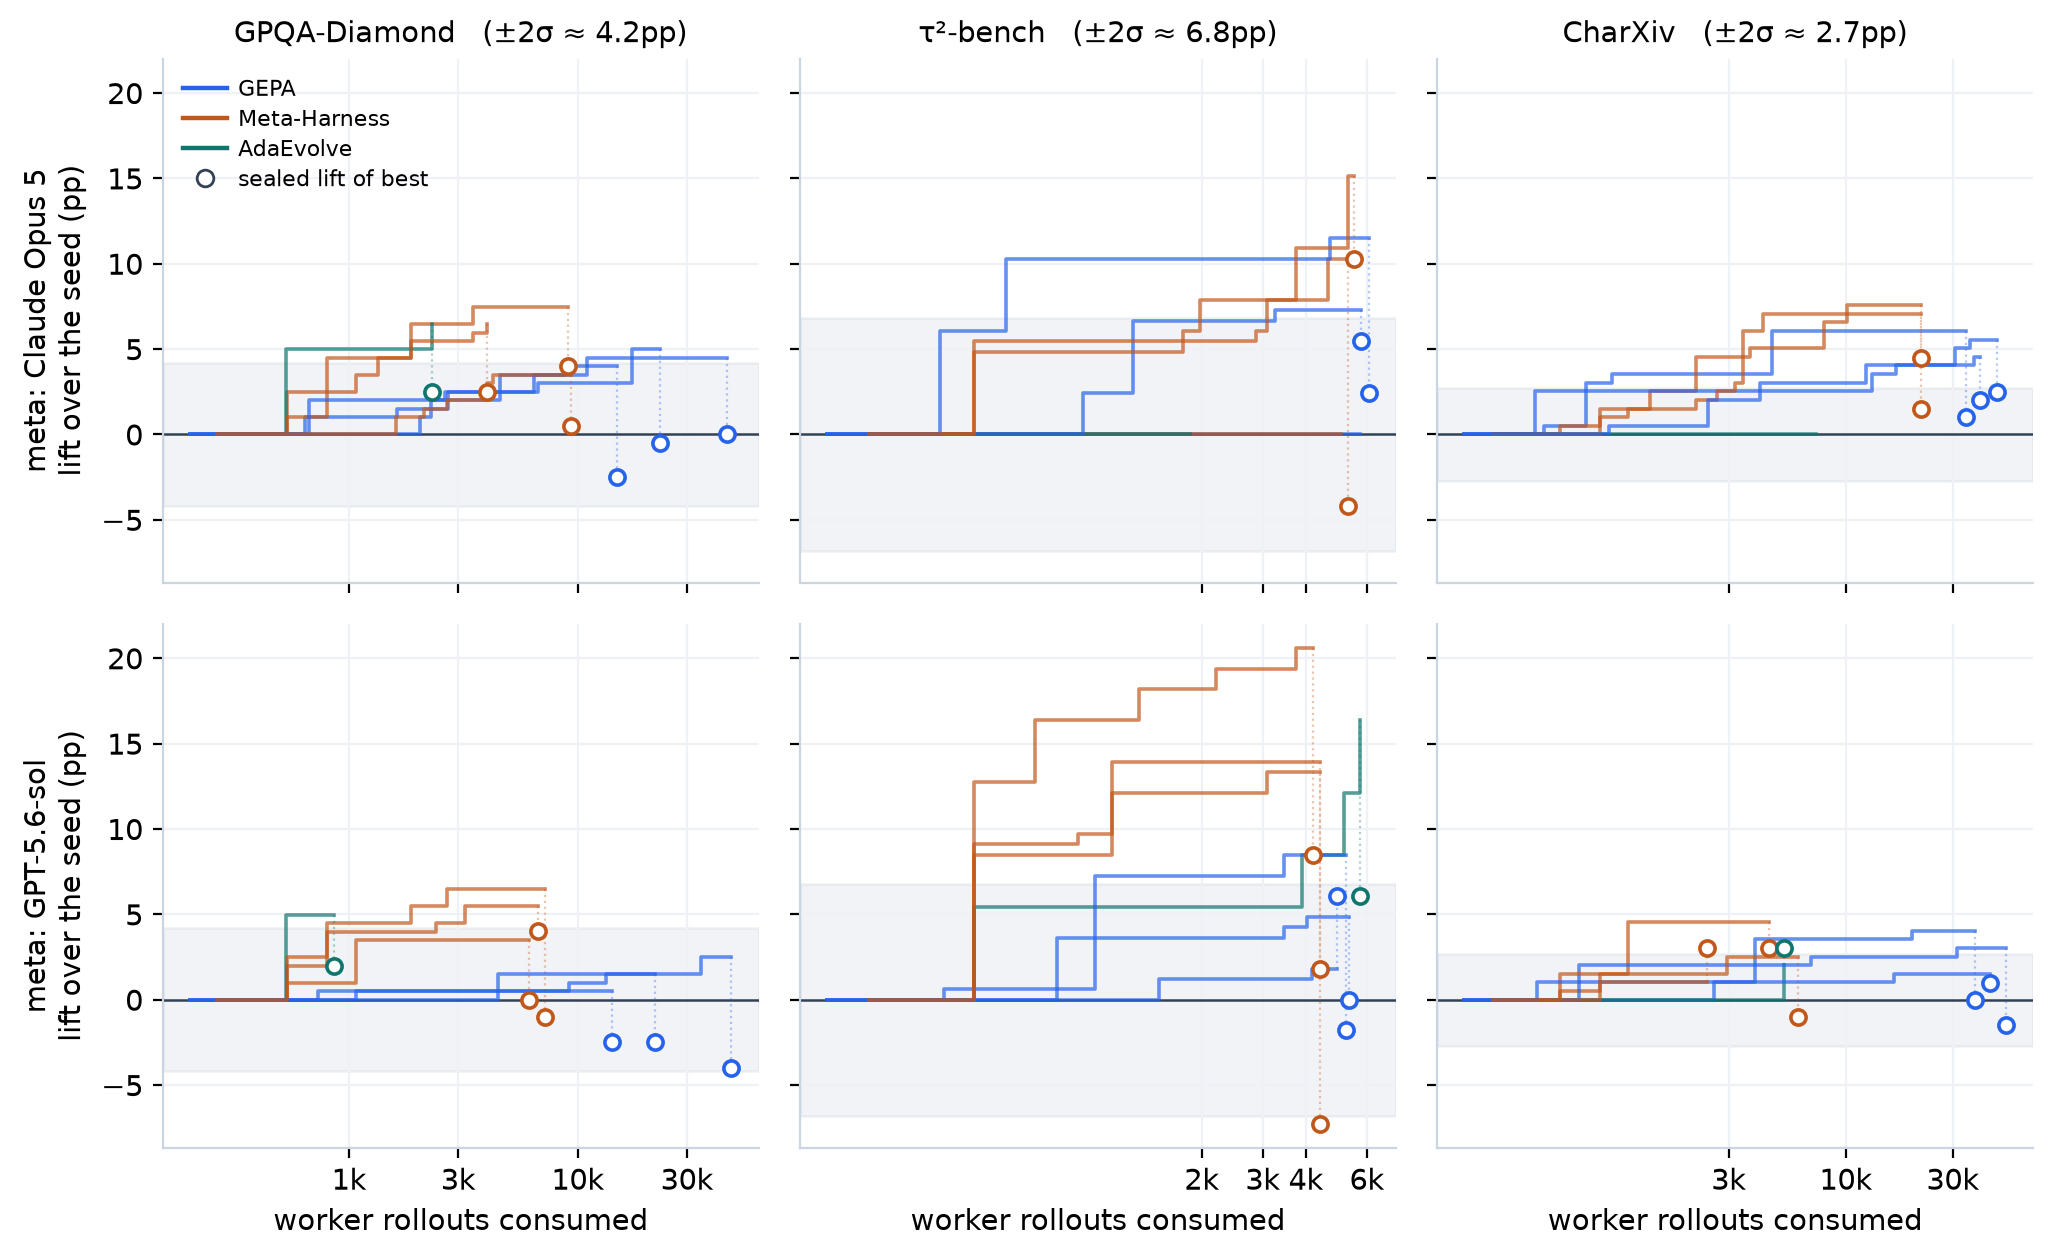
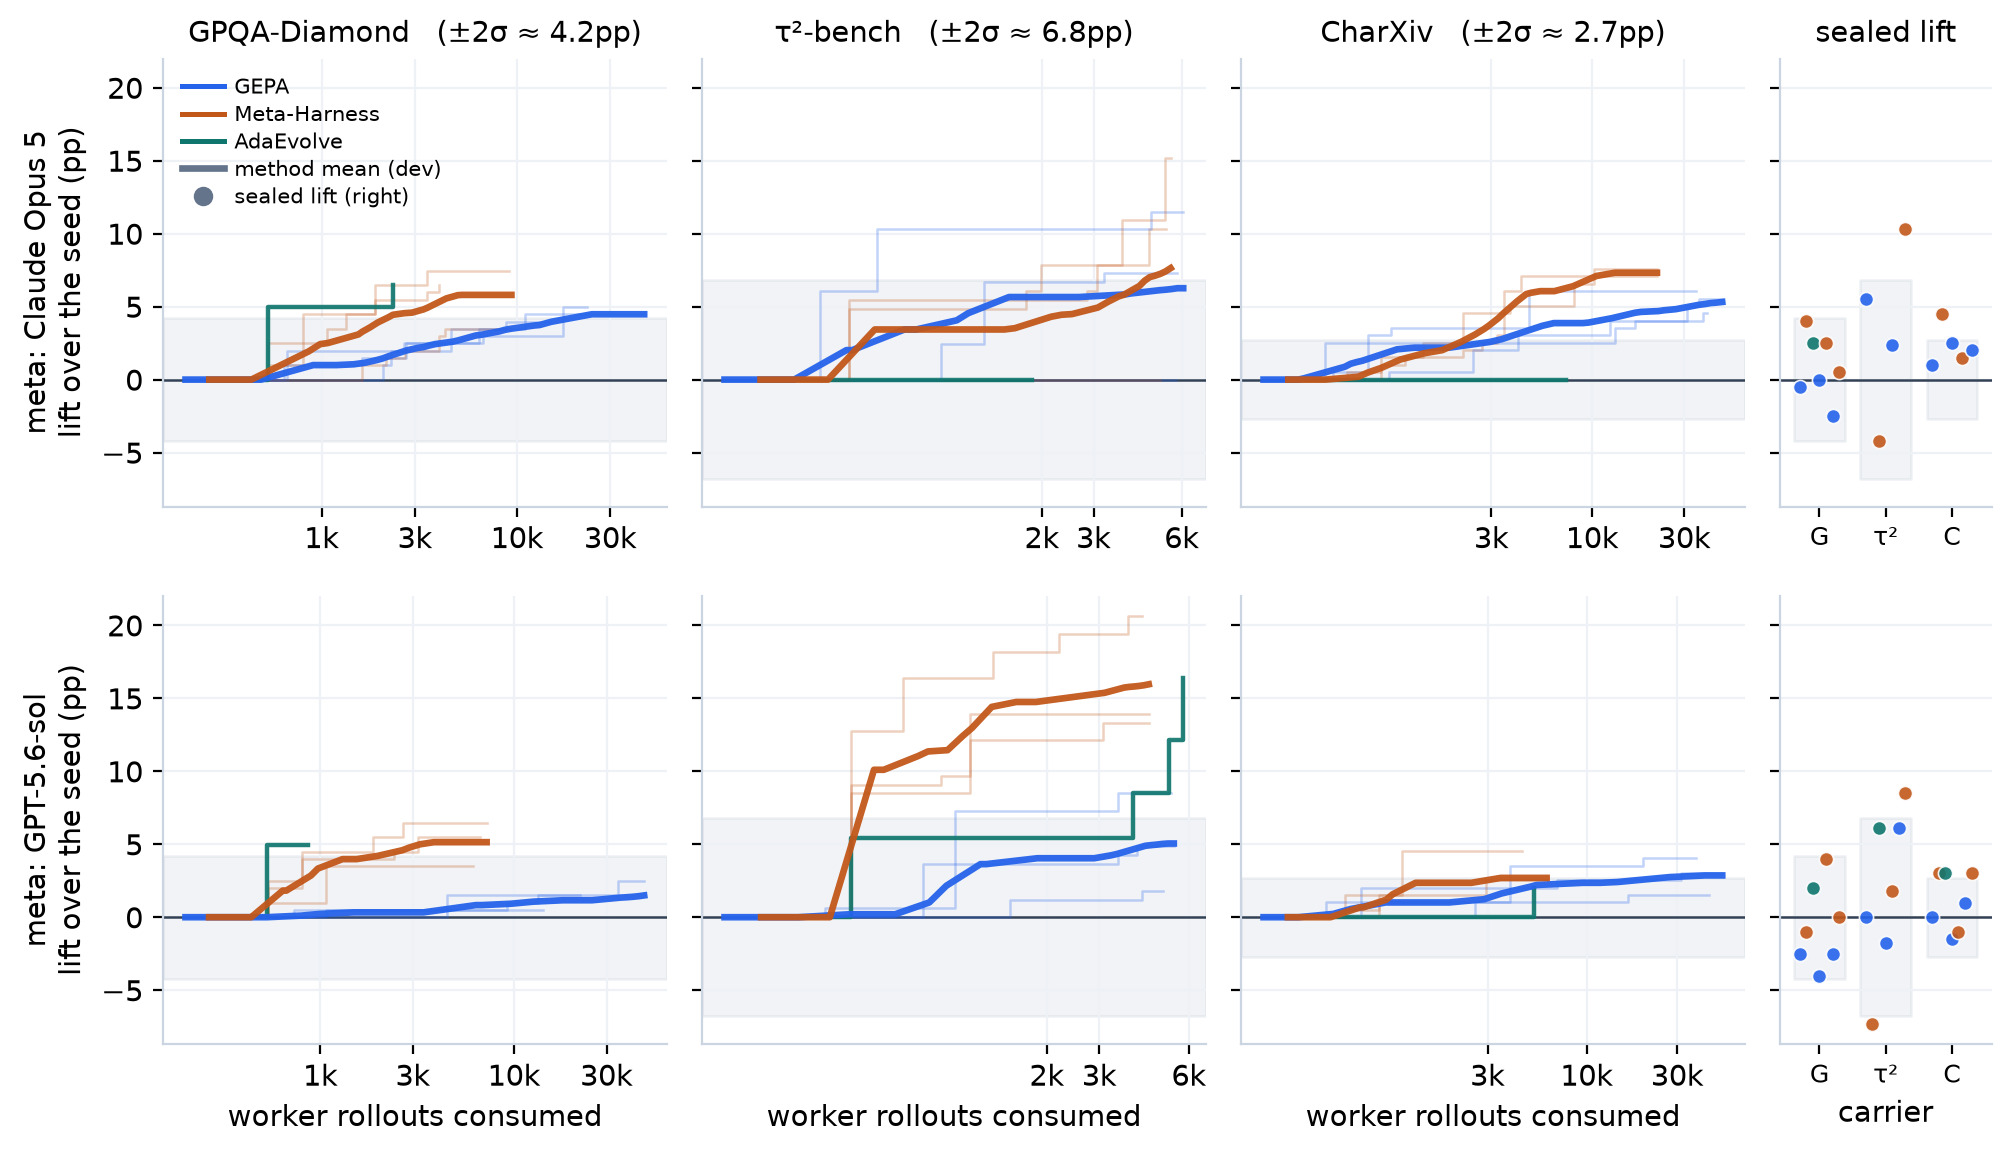
Anytime figure: smoothed method means + sealed-lift marginals; table per meta
- Line panels: bold smoothed per-method mean over the thin run curves
  (forward-filled onto a common log grid; single-run methods keep their
  one line instead of a fake mean).
- New right-hand marginal per meta row: the same runs' sealed lifts
  scattered around the 0-lift baseline inside each carrier's noise band.
- Method-axis table now reports Claude Opus 5 and GPT-5.6-sol separately
  (dev / sealed per method per meta); cells and survives columns dropped.
- Caption discloses the dev-vs-sealed baseline difference and the
  no-checkpoint runs.

diff --git a/posts/the-benchmark/figures/make_anytime_meta.py b/posts/the-benchmark/figures/make_anytime_meta.py
@@ -1,11 +1,12 @@
 #!/usr/bin/env python3
-"""Anytime dev curves for the frontier grid: rows = meta-model, columns = carrier.
+"""Anytime dev curves for the frontier grid: rows = meta-model, columns = carrier,
+plus a right-hand marginal per row scattering the sealed-test lifts around zero.
 
-Each line is one run's best-so-far *dev* lift over its own seed (what the
-optimizer believes it has gained) against the number of worker rollouts
-consumed. The open circle at each line's end is the sealed-test lift of the
-run's best checkpointed candidate — what actually survived. The story is the
-drop from every line's right end to its circle, in every panel.
+Each thin line is one run's best-so-far *dev* lift over its own seed against
+worker rollouts consumed; the bold line is the smoothed per-method mean
+(runs forward-filled onto a common log grid, hold-last-value, then averaged).
+The marginal shows where the same runs' sealed lifts actually landed: hugging
+the 0-lift baseline inside each carrier's noise band.
 
 Reads aggregates only (blog-data anytime.csv + cells.csv).
 Regenerate: /tmp/.viztest-venv/bin/python make_anytime_meta.py
@@ -13,6 +14,7 @@ Regenerate: /tmp/.viztest-venv/bin/python make_anytime_meta.py
 from __future__ import annotations
 
 import csv
+import math
 import os
 from collections import defaultdict
 
@@ -24,7 +26,7 @@ DATA = os.path.expanduser("~/mab2-runs/blog-data")
 METAS = [("opus5-luna", "Claude Opus 5"), ("sol-luna", "GPT-5.6-sol")]
 #           key       label            2σ(pp)  x-ticks (rollouts)
 BENCHES = [("gpqa", "GPQA-Diamond", 4.2, [1000, 3000, 10000, 30000]),
-           ("tau2", "τ²-bench", 6.8, [2000, 3000, 4000, 6000]),
+           ("tau2", "τ²-bench", 6.8, [2000, 3000, 6000]),
            ("charxiv", "CharXiv", 2.7, [3000, 10000, 30000])]
 METHODS = [("gepa", "GEPA", "#2563eb"),
            ("mh", "Meta-Harness", "#c2571a"),
@@ -51,32 +53,70 @@ def collect():
     return series, sealed
 
 
+def best_so_far(pts):
+    pts = sorted(pts)
+    base = pts[0][1]
+    xs, ys, cur = [], [], -1.0
+    for n, s in pts:
+        cur = max(cur, s)
+        xs.append(max(n, 1))
+        ys.append((cur - base) * 100)
+    return xs, ys
+
+
+def step_at(xs, ys, x):
+    """Value of the step curve at x: 0 before the first eval, hold-last after."""
+    if x < xs[0]:
+        return 0.0
+    v = ys[0]
+    for xi, yi in zip(xs, ys):
+        if xi <= x:
+            v = yi
+        else:
+            break
+    return v
+
+
+def smooth(vals, w=9):
+    half = w // 2
+    return [sum(vals[max(0, i - half):i + half + 1]) /
+            len(vals[max(0, i - half):i + half + 1]) for i in range(len(vals))]
+
+
 def main():
     series, sealed = collect()
-    fig, axes = plt.subplots(2, 3, figsize=(10.4, 6.4), sharey=True, sharex="col")
+    fig, axes = plt.subplots(
+        2, 4, figsize=(11.8, 6.4), sharey=True,
+        gridspec_kw={"width_ratios": [1, 1, 1, 0.42], "wspace": 0.08})
 
     for i, (source, mlabel) in enumerate(METAS):
+        # --- three carrier panels: runs + smoothed per-method mean ---
         for j, (bench, blabel, band, ticks) in enumerate(BENCHES):
             ax = axes[i][j]
             ax.axhspan(-band, band, color="#94a3b8", alpha=0.12, zorder=0)
             ax.axhline(0, color="#334155", lw=0.9, zorder=1)
+            by_method = defaultdict(list)
             for key, pts in sorted(series.items()):
                 if key[0] != source or key[1] != bench:
                     continue
-                pts.sort()
-                base = pts[0][1]
-                xs, best, cur = [], [], -1.0
-                for n, s in pts:
-                    cur = max(cur, s)
-                    xs.append(max(n, 1))
-                    best.append((cur - base) * 100)
-                ax.plot(xs, best, color=COLOR[key[3]], lw=1.3, alpha=0.7,
+                xs, ys = best_so_far(pts)
+                by_method[key[3]].append((xs, ys))
+                ax.plot(xs, ys, color=COLOR[key[3]], lw=0.9, alpha=0.28,
                         drawstyle="steps-post", zorder=2)
-                if key in sealed:
-                    ax.plot([xs[-1], xs[-1]], [best[-1], sealed[key]],
-                            color=COLOR[key[3]], lw=0.8, alpha=0.35, ls=":", zorder=2)
-                    ax.scatter([xs[-1]], [sealed[key]], s=30, facecolor="white",
-                               edgecolor=COLOR[key[3]], lw=1.3, zorder=3)
+            for method, curves in by_method.items():
+                if len(curves) < 2:      # single run: its own line is the story
+                    xs, ys = curves[0]
+                    ax.plot(xs, ys, color=COLOR[method], lw=1.6, alpha=0.9,
+                            drawstyle="steps-post", zorder=3)
+                    continue
+                lo = min(c[0][0] for c in curves)
+                hi = max(c[0][-1] for c in curves)
+                grid = [math.exp(math.log(lo) + t * (math.log(hi) - math.log(lo)) / 79)
+                        for t in range(80)]
+                mean = [sum(step_at(xs, ys, x) for xs, ys in curves) / len(curves)
+                        for x in grid]
+                ax.plot(grid, smooth(mean), color=COLOR[method], lw=2.4,
+                        alpha=0.95, zorder=4)
             ax.set_xscale("log")
             ax.set_xticks(ticks)
             ax.set_xticklabels([f"{n//1000}k" for n in ticks])
@@ -91,14 +131,39 @@ def main():
             ax.grid(color="#eef2f6", zorder=0)
             ax.set_axisbelow(True)
 
-    from matplotlib.lines import Line2D
-    handles = [Line2D([], [], color=c, lw=1.6, label=l) for _, l, c in METHODS]
-    handles.append(Line2D([], [], marker="o", ls="", markerfacecolor="white",
-                          markeredgecolor="#334155", label="sealed lift of best"))
-    axes[0][0].legend(handles=handles, loc="upper left", fontsize=8,
-                      frameon=False, handletextpad=0.5, labelspacing=0.35)
+        # --- right marginal: sealed lifts around the 0 baseline ---
+        ax = axes[i][3]
+        for j, (bench, _, band, _) in enumerate(BENCHES):
+            x0, x1 = j - 0.38, j + 0.38
+            ax.fill_between([x0, x1], -band, band, color="#94a3b8",
+                            alpha=0.12, zorder=0)
+        ax.axhline(0, color="#334155", lw=0.9, zorder=1)
+        for j, (bench, _, _, _) in enumerate(BENCHES):
+            keys = sorted(k for k in sealed if k[0] == source and k[1] == bench)
+            for r, key in enumerate(keys):
+                jitter = (r - (len(keys) - 1) / 2) * (0.6 / max(len(keys) - 1, 1))
+                ax.scatter([j + jitter], [sealed[key]], s=26,
+                           color=COLOR[key[3]], alpha=0.9,
+                           edgecolor="white", lw=0.6, zorder=3)
+        ax.set_xlim(-0.6, 2.6)
+        ax.set_xticks([0, 1, 2])
+        ax.set_xticklabels(["G", "τ²", "C"], fontsize=9)
+        if i == 0:
+            ax.set_title("sealed lift", fontsize=10.5)
+        if i == 1:
+            ax.set_xlabel("carrier")
+        ax.spines[["top", "right"]].set_visible(False)
+        ax.grid(color="#eef2f6", zorder=0, axis="y")
+        ax.set_axisbelow(True)
 
-    fig.tight_layout()
+    from matplotlib.lines import Line2D
+    handles = [Line2D([], [], color=c, lw=1.8, label=l) for _, l, c in METHODS]
+    handles.append(Line2D([], [], color="#64748b", lw=2.4, label="method mean (dev)"))
+    handles.append(Line2D([], [], marker="o", ls="", color="#64748b",
+                          label="sealed lift (right)"))
+    axes[0][0].legend(handles=handles, loc="upper left", fontsize=7.6,
+                      frameon=False, handletextpad=0.5, labelspacing=0.3)
+
     out = os.path.join(os.path.dirname(os.path.abspath(__file__)), "anytime_meta.png")
     fig.savefig(out)
     print("wrote", out)
